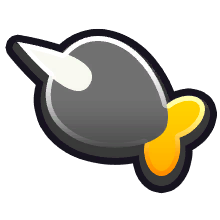
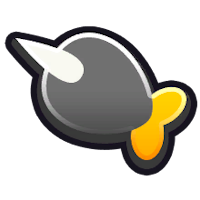
minor adjustments to delay and ammo

diff --git a/cardeditor.js b/cardeditor.js
@@ -127,8 +127,9 @@ const cardTypes = {
     imgBorderRadius: "10%",
     borderOffset: "translate(0%, -0.8%)",
     imgObjFit: "cover",
-    delayTop: "43%",
-    delayLeft: "95.5%",
+    delayTop: "39%",
+    delayLeft: "95%",
+    delayFontSize: "4em",
     classPinTransform: "translate(-66.2%, 60%)",
     heroPinTransform: "translate(-50%, -50%)",
     heroPinLeft: "50%",
@@ -152,8 +153,9 @@ const cardTypes = {
     heroPinTop: "43%",
     imgBorderRadius: "50%",
     imgObjFit: "fill",
-    delayTop: "25%",
-    delayLeft: "90%",
+    delayTop: "22%",
+    delayLeft: "88%",
+    delayFontSize: "6em",
     damageVisibility: true,
     ammoVisibility: false,
     delayVisibility: true
@@ -201,6 +203,7 @@ const updateCardLayout = (type) => {
   cardDelay.style.left = cardTypeObj.delayLeft;
   cardDelayTextContainer.style.top = cardTypeObj.delayTop;
   cardDelayTextContainer.style.left = cardTypeObj.delayLeft;
+  cardDelayTextContainer.style.fontSize = cardTypeObj.delayFontSize;
   classPin.style.transform = cardTypeObj.classPinTransform;
   heroPin.style.transform = cardTypeObj.heroPinTransform;
   heroPin.style.left = cardTypeObj.heroPinLeft;

diff --git a/cardeditor.css b/cardeditor.css
@@ -205,15 +205,15 @@ input[type="file"] {
 .ammo {
 	position: absolute;
 	transform: translate(-50%, -50%);
-	left: 90%;
-	top: 25%
+	left: 88%;
+	top: 22%
 }
 
 .delay {
 	position: absolute;
 	transform: translate(-50%, -50%);
-	left: 95.5%;
-	top: 43%
+	left: 95%;
+	top: 39%
 }
 
 .rarity-pin {
@@ -319,8 +319,8 @@ input[type="file"] {
 	position: absolute;
 	transform: translate(-50%, -50%);
 	font-size: 4em;
-	left: 95.5%;
-	top: 43%;
+	left: 95%;
+	top: 39%;
 }
 
 .description-text {
